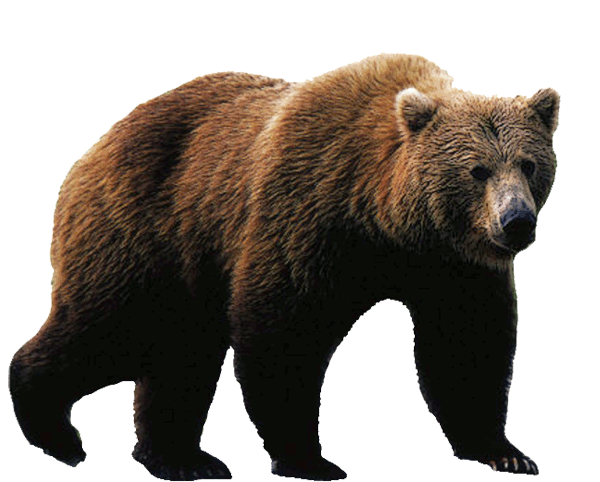
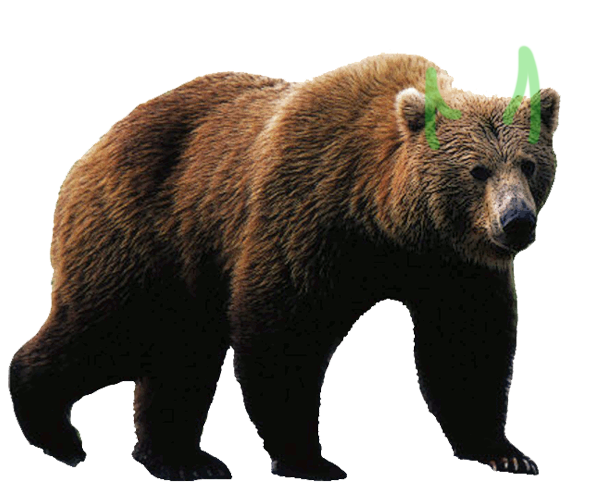
Horns on the bear

Changed region(s): [[0.84, 0.0934, 0.9, 0.3112], [0.69, 0.1245, 0.78, 0.3112]]

diff --git a/README.md b/README.md
@@ -48,3 +48,6 @@ cleaned-up readme
 >>>>>>> Stashed changes
 >>>>>>> Stashed changes
 >>>>>>> Stashed changes
+
+Added a Bear
+
